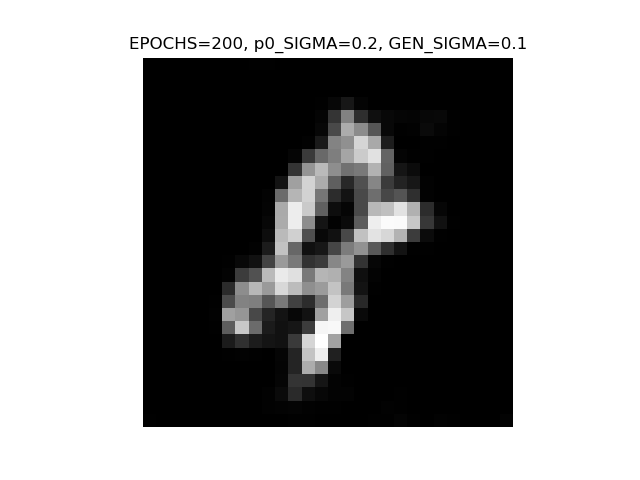
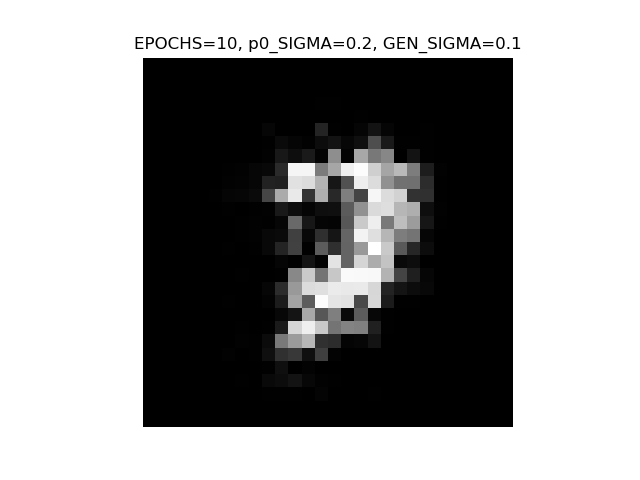
Added function to plot grid

Changed region(s): [[0.3438, 0.2188, 0.6875, 0.8438], [0.1875, 0.0625, 0.8125, 0.125]]

diff --git a/main.py b/main.py
@@ -15,14 +15,14 @@ from src.MCMC_Samplers.langevin import langevin_sampler
 from src.loss_functions.EBM_loss_fn import EBM_loss
 from src.loss_functions.GEN_loss_fn import generator_loss
 from src.pipeline.train import train_step
-from src.pipeline.sample import generate_sample, save_final_sample
+from src.pipeline.sample import generate_sample, save_final_sample, generate_final_grid
 from src.utils.diagnostics import plot_hist, plot_pdf
 
 
 device = "cuda" if torch.cuda.is_available() else "cpu"
 
 # Hyperparameters
-NUM_EPOCHS = 200
+NUM_EPOCHS = 10
 BATCH_SIZE = 32
 
 Z_SAMPLES = 100 # Size of latent Z vector
@@ -133,13 +133,14 @@ with torch.profiler.profile(
 
 writer.close()
 
-# Plot the final generated image
-save_final_sample(generated_data, hyperparams=[NUM_EPOCHS, p0_SIGMA, GENERATOR_SIGMA])
+# # Plot the final generated image
+# save_final_sample(generated_data, hyperparams=[NUM_EPOCHS, p0_SIGMA, GENERATOR_SIGMA])
 
-# Diagnostics
-plot_hist(Sampler, EBMnet, GENnet, x)
-Sampler.batch_size = 100
-X = train_dataset.data[:100].to(device).unsqueeze(1).float()
-plot_pdf(Sampler, EBMnet, GENnet, X.float())
+# # Diagnostics
+# plot_hist(Sampler, EBMnet, GENnet, x)
+# Sampler.batch_size = 100
+# X = train_dataset.data[:100].to(device).unsqueeze(1).float()
+# plot_pdf(Sampler, EBMnet, GENnet, X.float())
 
+generate_final_grid(Sampler, GENnet, EBMnet, num_samples=16)
 

diff --git a/src/pipeline/sample.py b/src/pipeline/sample.py
@@ -1,4 +1,5 @@
 import torch
+import numpy as np
 import matplotlib.pyplot as plt
 
 def generate_sample(Sampler, GENnet, EBMnet):
@@ -23,3 +24,21 @@ def save_final_sample(final_x, hyperparams):
     plt.title(title)
 
     plt.savefig('img/Final Vanilla Pang Sample.png')
+
+def generate_final_grid(Sampler, GENnet, EBMnet, num_samples):
+    """
+    Function to generate a grid of samples from the final model and plot it.
+    """
+    generated_data = torch.zeros((num_samples, 1, 28, 28))
+    for i in range(num_samples):
+        generated_data[i] = generate_sample(Sampler, GENnet, EBMnet).reshape(-1, 1, 28, 28)[-1]
+
+    # Plot the grid of samples
+    grid_size = int(np.sqrt(num_samples + 1))
+    fig, axs = plt.subplots(grid_size, grid_size, figsize=(10, 10))
+    for i, ax in enumerate(axs.flat):
+        ax.imshow(generated_data[i][0].cpu().detach().numpy(), cmap='gray')
+        ax.axis('off')
+
+    plt.savefig('img/Final Vanilla Pang Sample Grid.png')
+    
